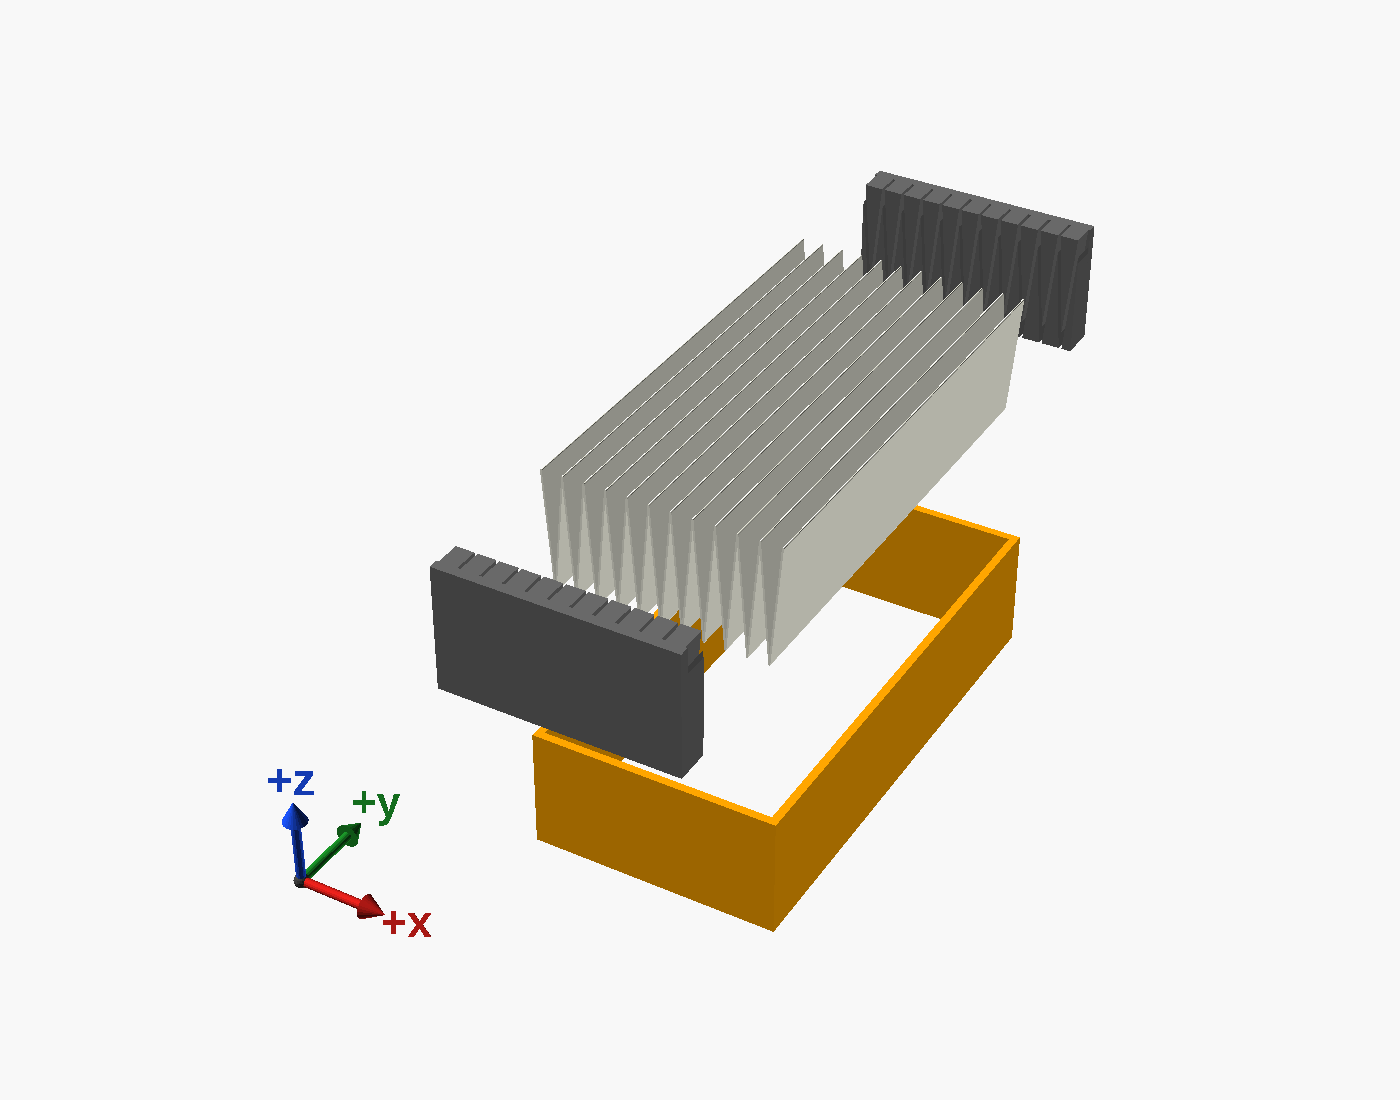
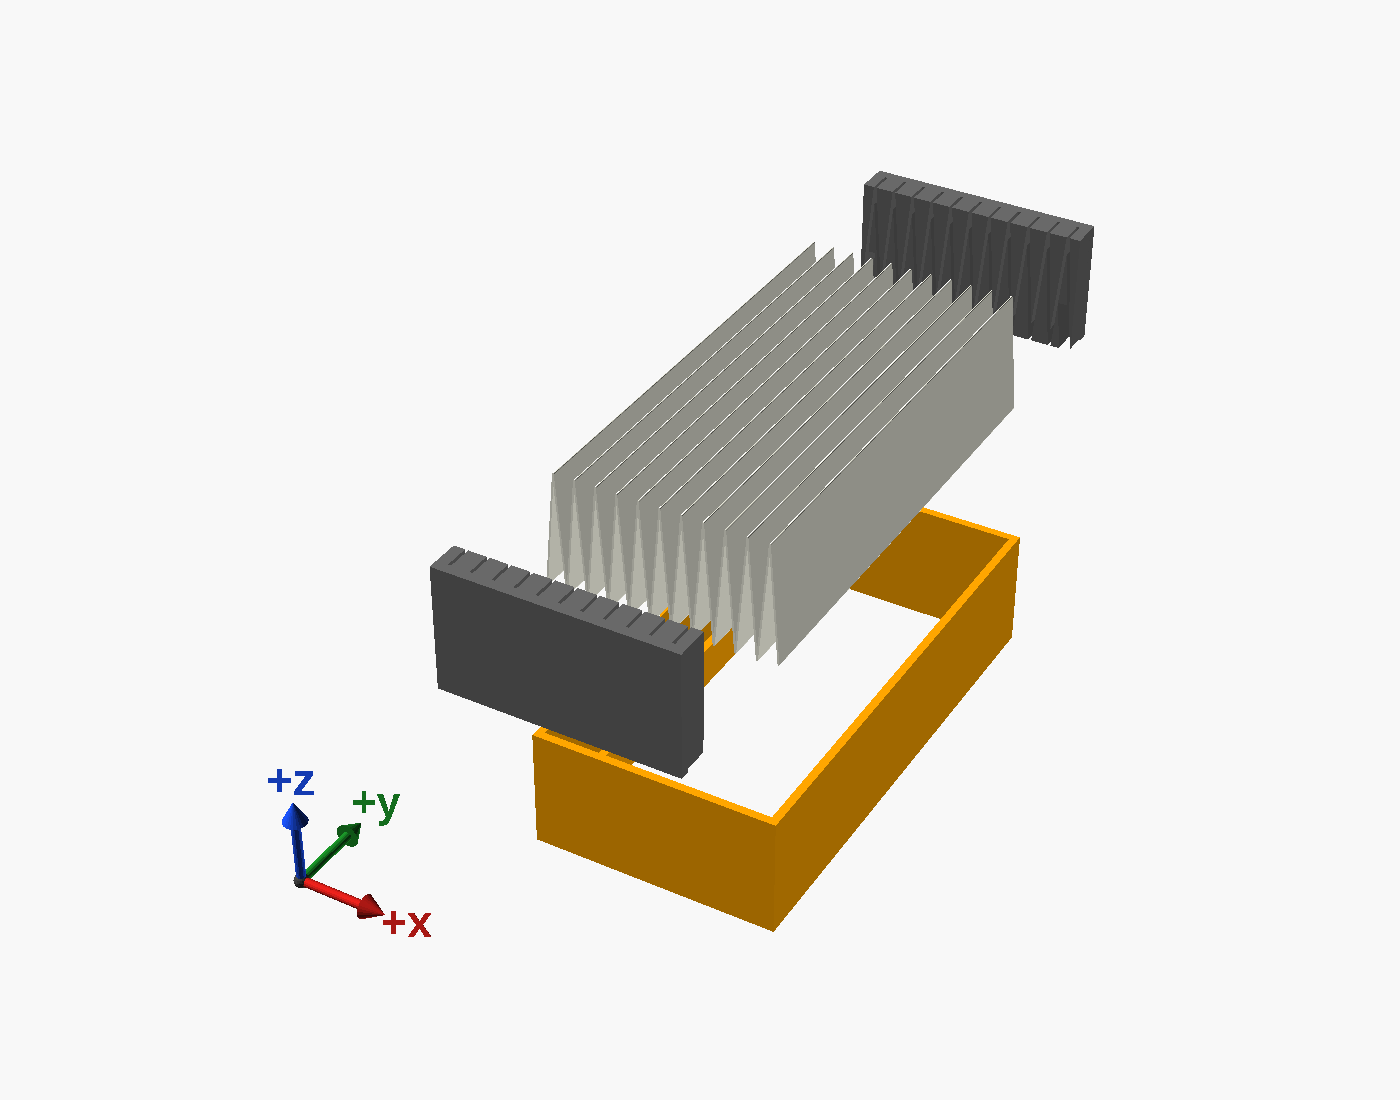
feat(bentobox): flaps in slots along the paper frame's long walls
The paper's long edges are now cut on a bottom fold, so each side
keeps half a pleat more: a flap running down to the foot of the ring's
wall. Its cut end stands in a slot between the wall and a strip moulded
onto the wall's foot, 8 mm tall, parallel to the flap. Dirty air
between the flap and the wall presses it onto the strip the whole
length of the ring - a strip of contact where a top fold met the wall
along a line. At the ends the flap runs on into the caps' slot.

The caps follow the new edges: their teeth move half a pleat, a half
wedge fills the sliver between each flap and its wall, and the teeth
beside the flaps are cut back clear of the strips. The cut is 75.7 mm
along the folds and 10 pleats across with half a pleat each side.
paper_flaps = false gives the top-fold edges back; cap_slot_play is
now slot_play, for both kinds of slot.

Two new fit checks with their controls: the ring's walls and strips
against the paper (the strips clear the first pleat up to 9.6 mm), and
the caps against the strips. The opening check now runs on the ring's
walls only, as the strips reach over the opening on purpose. A flat
figure across the folds shows the slots. Fits 10 of 10, controls 13 of
13, figures 7 of 7; both parts are single watertight bodies; ring 1 h
8 m, 8 g ASA; cap 52 m, 5 g TPU 95A.

Changed region(s): [[0.3071, 0.2164, 0.7371, 0.6182], [0.7064, 0.1855, 0.7679, 0.2164], [0.6143, 0.1545, 0.6757, 0.1855]]

diff --git a/scripts/bentobox-checks.py b/scripts/bentobox-checks.py
@@ -36,7 +36,8 @@ BACKEND = ["--backend=manifold"]
 
 FITS = [("check_section_carbon", []), ("check_section_fans", []), ("check_magnets_top", []),
         ("check_magnets_bottom", []), ("check_air", []),
-        ("check_ring_holder", []), ("check_ring_opening", []), ("check_wedges_paper", [])]
+        ("check_ring_holder", []), ("check_ring_opening", []), ("check_wedges_paper", []),
+        ("check_ring_paper", []), ("check_caps_strips", [])]
 
 # Each control breaks ONE side of its check's relationship - the section's feature against the original's
 # fixed mesh, or against a probe built from the original's measurements - never both, so that the check
@@ -53,6 +54,8 @@ CONTROLS = [
     # The wedges' width is derived; overriding it moves the wedges and leaves the paper, drawn from its own values.
     ("check_wedges_paper", [("wedge_w", "4")], "the caps' wedges made wider than the paper's channels"),
     ("check_wedges_paper", [("tooth_w", "4")], "the caps' teeth from below made wider than theirs"),
+    ("check_ring_paper", [("ring_strip_h", "12")], "the ring's strips made taller than the channel beside each flap"),
+    ("check_caps_strips", [("strip_notch", "-0.3")], "the caps' teeth not cut back for the strips"),
     # A missing original makes every intersection empty, which reads as a pass: its import's WARNING must fail it.
     ("check_section_carbon", [("carbon_stl", '"original/missing.stl"')], "the housing's STL missing - must be reported, not passed"),
     ("check_ring_holder", [("hepa_stl", '"original/missing.stl"')], "the holder's STL missing - must be reported, not passed"),
@@ -115,6 +118,7 @@ FIGURES = {
     "exploded": [("view", '"exploded"')], "cut": [("view", '"cut"'), ("cut_x", "0")],
     "section-top": [("view", '"section"')], "section-bottom": [("view", '"section"'), ("axes_cam", "[235, 0, 30]")],
     "paper-frame": [("view", '"frame"'), ("explode", "25")], "paper-cap": [("view", '"cap"')],
+    "paper-cut": [("view", '"paper_cut"')],
 }
 CAMERAS = {
     "exploded": ["--imgsize=1200,1900", "--viewall", "--autocenter", "--camera=0,0,0,70,0,320,0"],
@@ -123,6 +127,7 @@ CAMERAS = {
     "section-bottom": ["--imgsize=1400,900", "--viewall", "--autocenter", "--camera=0,0,0,235,0,30,0"],
     "paper-frame": ["--imgsize=1400,1100", "--viewall", "--autocenter", "--camera=0,0,0,55,0,30,0"],
     "paper-cap": ["--imgsize=1200,800", "--viewall", "--autocenter", "--camera=0,0,0,55,0,30,0"],
+    "paper-cut": ["--imgsize=1800,560", "--projection=o", "--camera=-8,11,0,0,0,0,118"],
 }
 
 

diff --git a/docs/bentobox-scrubber.md b/docs/bentobox-scrubber.md
@@ -64,7 +64,8 @@ joint rather than changing it.
 
 Pleated HEPA paper off a roll can take the bought cartridge's place. The holder's pocket is 82 × 40.8 mm,
 straight for 15.6 mm above the ledge, its ends flaring out above that, so a pack 20 mm deep stands in it.
-A ring holds the paper there, and a TPU cap on each end closes its pleats' ends.
+A ring holds the paper there, with a slot along the foot of each long wall for the paper's edge, and a
+TPU cap on each end closes its pleats' ends.
 
 ![The frame pulled apart: the ring, the cut paper above it with its folds running end to end, a cap drawn back from each end](bentobox/paper-frame.png)
 
@@ -76,19 +77,26 @@ A ring holds the paper there, and a TPU cap on each end closes its pleats' ends.
   is the one at higher pressure, by about 85 Pa, so the air presses the paper onto the teeth and closes
   the slot; with wedges alone it would push the paper away from them. The teeth also hold up the paper's
   ends, which stand over the ledge's opening, and they cover no paper the wedges do not already cover.
+- **The long sides.** The paper runs on half a pleat past its last top fold, down to the foot of the
+  ring's wall, as a flap. Its cut end stands in a slot between the wall and a strip moulded onto the wall's
+  foot, 8 mm tall. Dirty air between the flap and the wall presses the flap onto the strip, the whole
+  length of the ring: a strip of contact, not the line of a fold against a wall. At each end the flap runs
+  on into the cap's slot, so the seal goes round the corner.
+
+  ![Across the folds, flat: on the left the ring's middle, its walls and the strips at their feet, each flap down in its slot; on the right a cap's face, its wedges and teeth round the paper, notched where the strips pass](bentobox/paper-cut.png)
 - **Cutting the paper.** For this build's paper, 20 mm deep with about 3.3 mm between top folds: a piece
-  **75.7 mm long along the folds, and 11 pleats across**, both long edges cut along a top fold. Count the
-  pleats rather than measuring the width: folded, that is about 36.7 mm, and the ring spreads it to 37.7.
-  The roll's 300 × 100 mm pack gives six pieces.
+  **75.7 mm long along the folds, and 10 pleats across with half a pleat more each side** - both long
+  edges cut along a bottom fold. Count the pleats rather than measuring the width: folded, that is about
+  36.7 mm, and the ring spreads it to 37.2. The roll's 300 × 100 mm pack gives six pieces.
 - **Putting it together.** Push a cap onto each end of the piece, with its wedges at the top, where the
-  air comes in, and every pleat wall in its slot. Drop the three into the ring; the ring stands on the
-  ledge like the cartridge. To take it out, lift the holder off the stack and tip it over. Print one cap
-  first and try it on an offcut: the slot is barely wider than a printed line, and how well TPU keeps it
-  open is for the print to show.
-- **If dust gets round it.** Where the paper's outer folds meet the ring's long walls nothing is glued. If a
-  dusty streak ever shows along an edge on the paper's underside, run hot glue along that seam: standard
-  sticks, not low-temperature ones, since the chamber runs at about 45 °C during an ASA print. Hot glue
-  peels off the ASA ring, so the ring can still be used again.
+  air comes in, and every pleat wall in its slot. Lower the three into the ring, each flap running down
+  between the wall and its strip; the ring stands on the ledge like the cartridge. To take it out, lift the
+  holder off the stack and tip it over. Print one cap first and try it on an offcut: the slots are barely
+  wider than a printed line, and how well TPU keeps them open is for the print to show.
+- **If dust gets round it.** Nothing is glued. If a dusty streak ever shows along an edge of the paper's
+  underside, run hot glue along that flap in its slot: standard sticks, not low-temperature ones, since the
+  chamber runs at about 45 °C during an ASA print. Hot glue peels off the ASA ring, so the ring can still
+  be used again.
 
 ![A cap as it prints: the plate on the bed, the wedges and teeth standing up out of it, the zigzag slot between them](bentobox/paper-cap.png)
 
@@ -96,9 +104,11 @@ A ring holds the paper there, and a TPU cap on each end closes its pleats' ends.
 [`bentobox.params.scad`](../models/bentobox/bentobox.params.scad) - `paper_depth` (fold to fold),
 `paper_pitch` (top fold to top fold) and `paper_t` (its thickness) - and export the ring and the cap again.
 The ring stands as tall as the paper is deep. The pleats across are the whole number nearest to filling
-the ring, and the wedges and teeth are spaced to match; rendering either part echoes the new cut. The slot
-is `cap_slot_play`, 0.2 mm, wider than `paper_t`: paper thicker than the slot will not go in, and thinner
-paper sits loose and is pressed onto the teeth. `cap_teeth_below = false` leaves the wedges alone.
+the ring, and the wedges, teeth and strips are placed to match; rendering either part echoes the new cut.
+The slots are `slot_play`, 0.2 mm, wider than `paper_t`: paper thicker than a slot will not go in, and
+thinner paper sits loose and is pressed onto the teeth and the strips. `paper_flaps = false` cuts the long
+edges on a top fold instead, resting against the wall with no strips; `cap_teeth_below = false` leaves
+the wedges alone.
 
 **Still to confirm** for this build's paper: the 3.3 mm between folds is worked out from the roll, 1200 mm
 folded into 100, not counted, and the 0.3 mm thickness is an estimate - the one that matters, since it sets
@@ -112,7 +122,7 @@ them, the section and the ring bottom down, a cap with its plate on the bed. No 
 | Part | Material | Count | Time | Filament |
 |---|---|---|---|---|
 | Section | ASA | 1 | 1 h 43 m | 16 g |
-| Paper ring | ASA | 1 | 54 m | 7 g |
+| Paper ring | ASA | 1 | 1 h 8 m | 8 g |
 | Paper cap | TPU 95A | 2 | 52 m each | 5 g each |
 
 Times and weights are PrusaSlicer's, at 0.2 mm with the house profile `0.2mm QUALITY @MK3 - no skirt, no
@@ -215,9 +225,10 @@ OPENSCAD="<the OpenSCAD nightly>" uv run scripts/bentobox-checks.py all
 It intersects the section with the carbon housing above it and the fan case below it, puts a magnet across
 each joint through both parts' holes, and runs the air's way from the housing's floor openings down through
 the section. For the paper's frame it stands the ring in the original HEPA holder, runs the ledge's opening
-up through the ring, and sets the caps' wedges and teeth in a model of the paper drawn from the paper's own
-values. Each must come out empty. Every check has a positive control, something broken on purpose that it
-must catch, and the run fails if one passes unnoticed: 8 fits and 11 controls.
+up through the ring's walls, sets the caps' wedges and teeth and the ring's strips in a model of the paper
+drawn from the paper's own values, and the caps against the strips. Each must come out empty. Every check
+has a positive control, something broken on purpose that it must catch, and the run fails if one passes
+unnoticed: 10 fits and 13 controls.
 
 [`bentobox.params.scad`](../models/bentobox/bentobox.params.scad) holds the original's dimensions, measured
 by sectioning its STLs, and every setting of the section and of the paper's frame.
